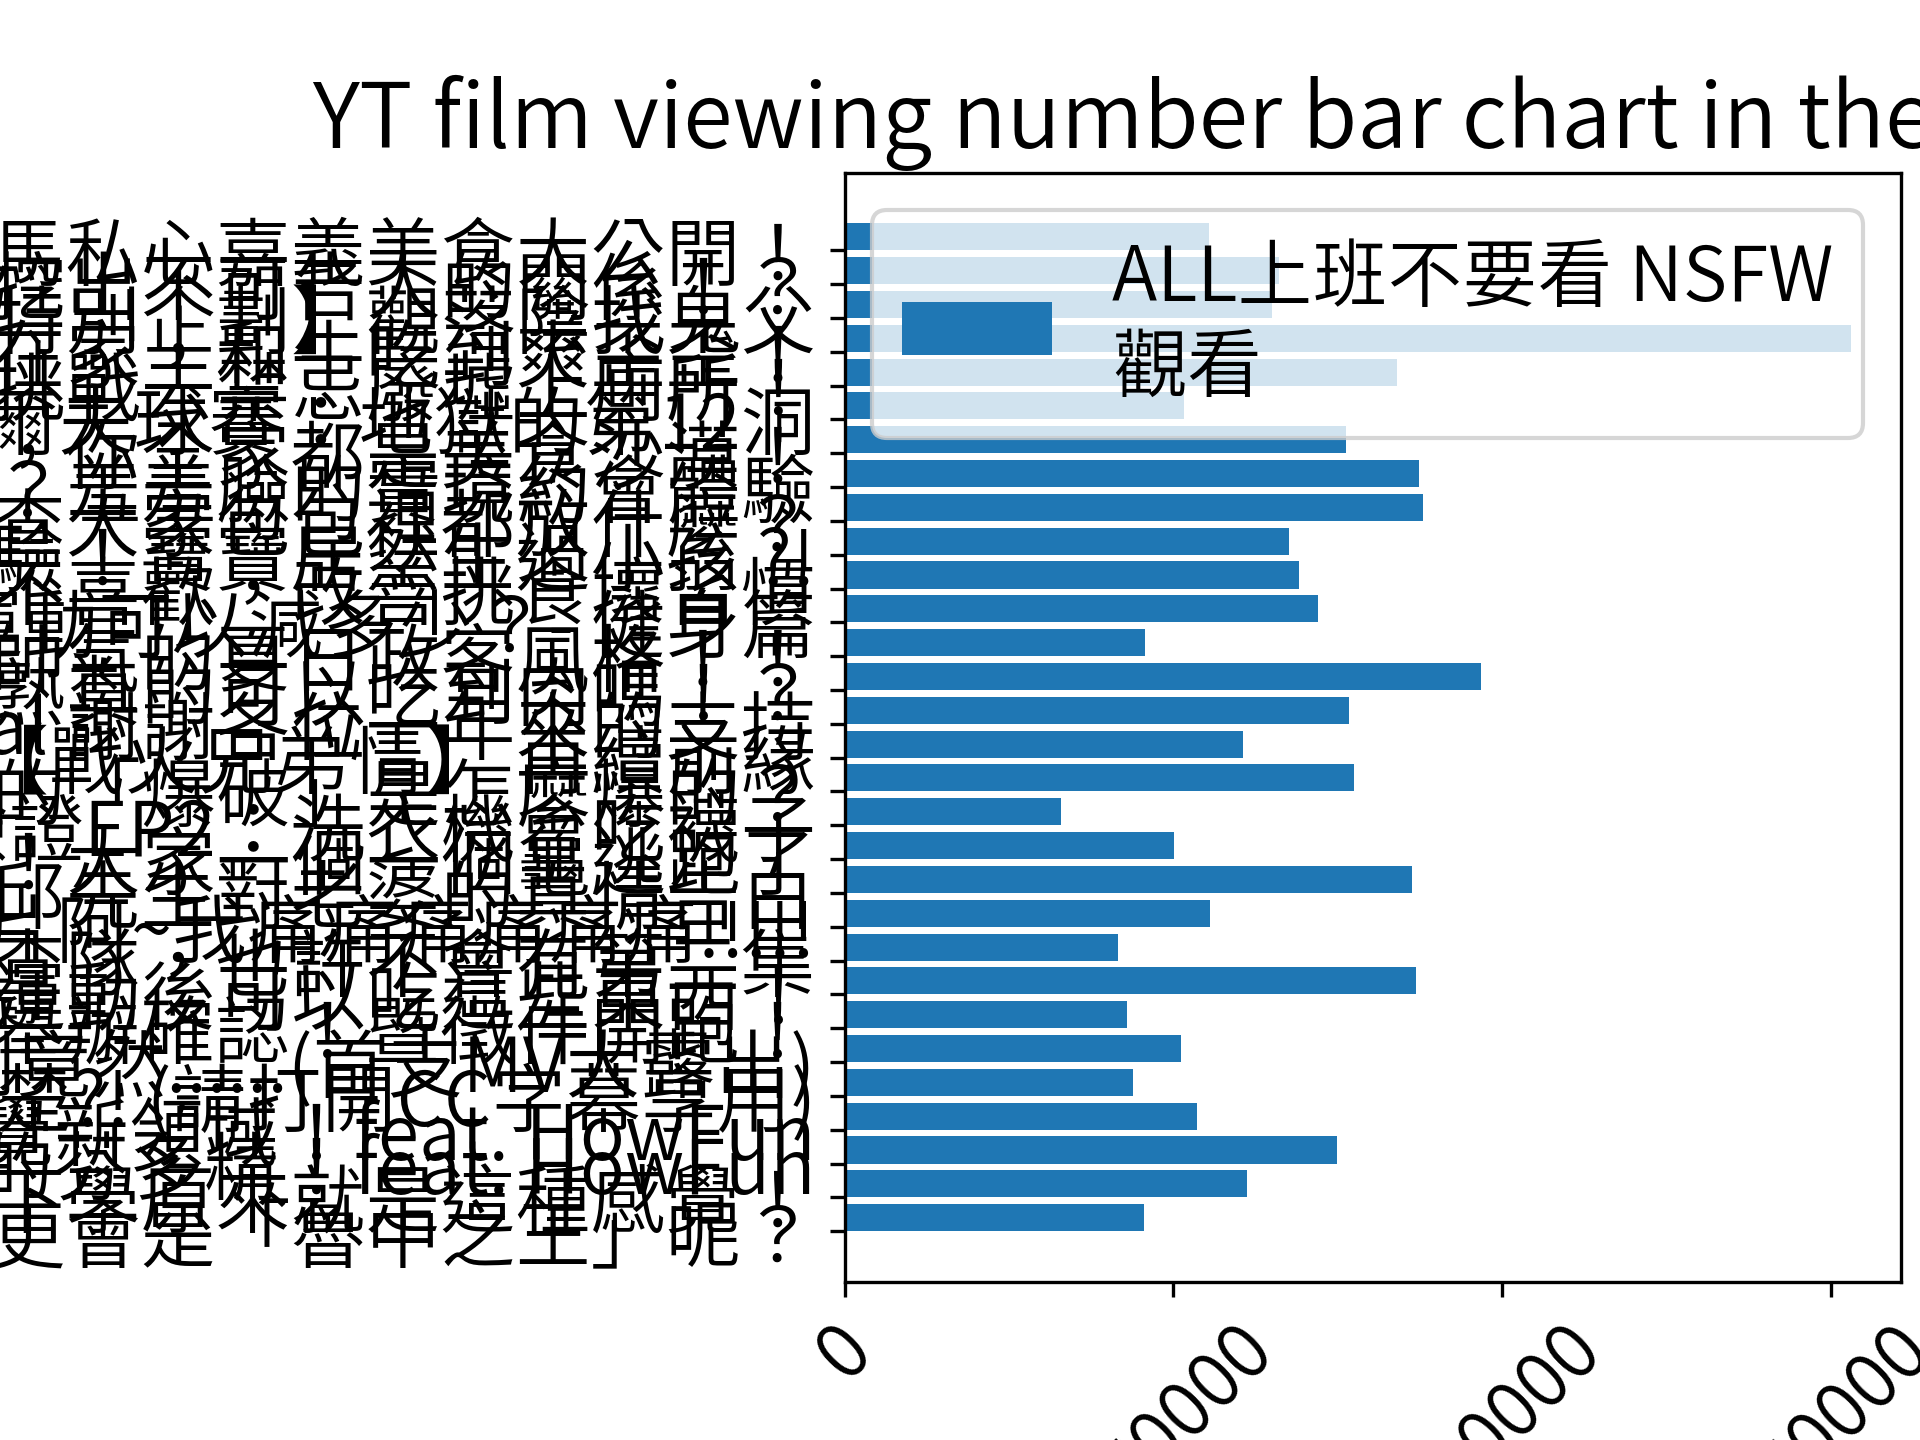
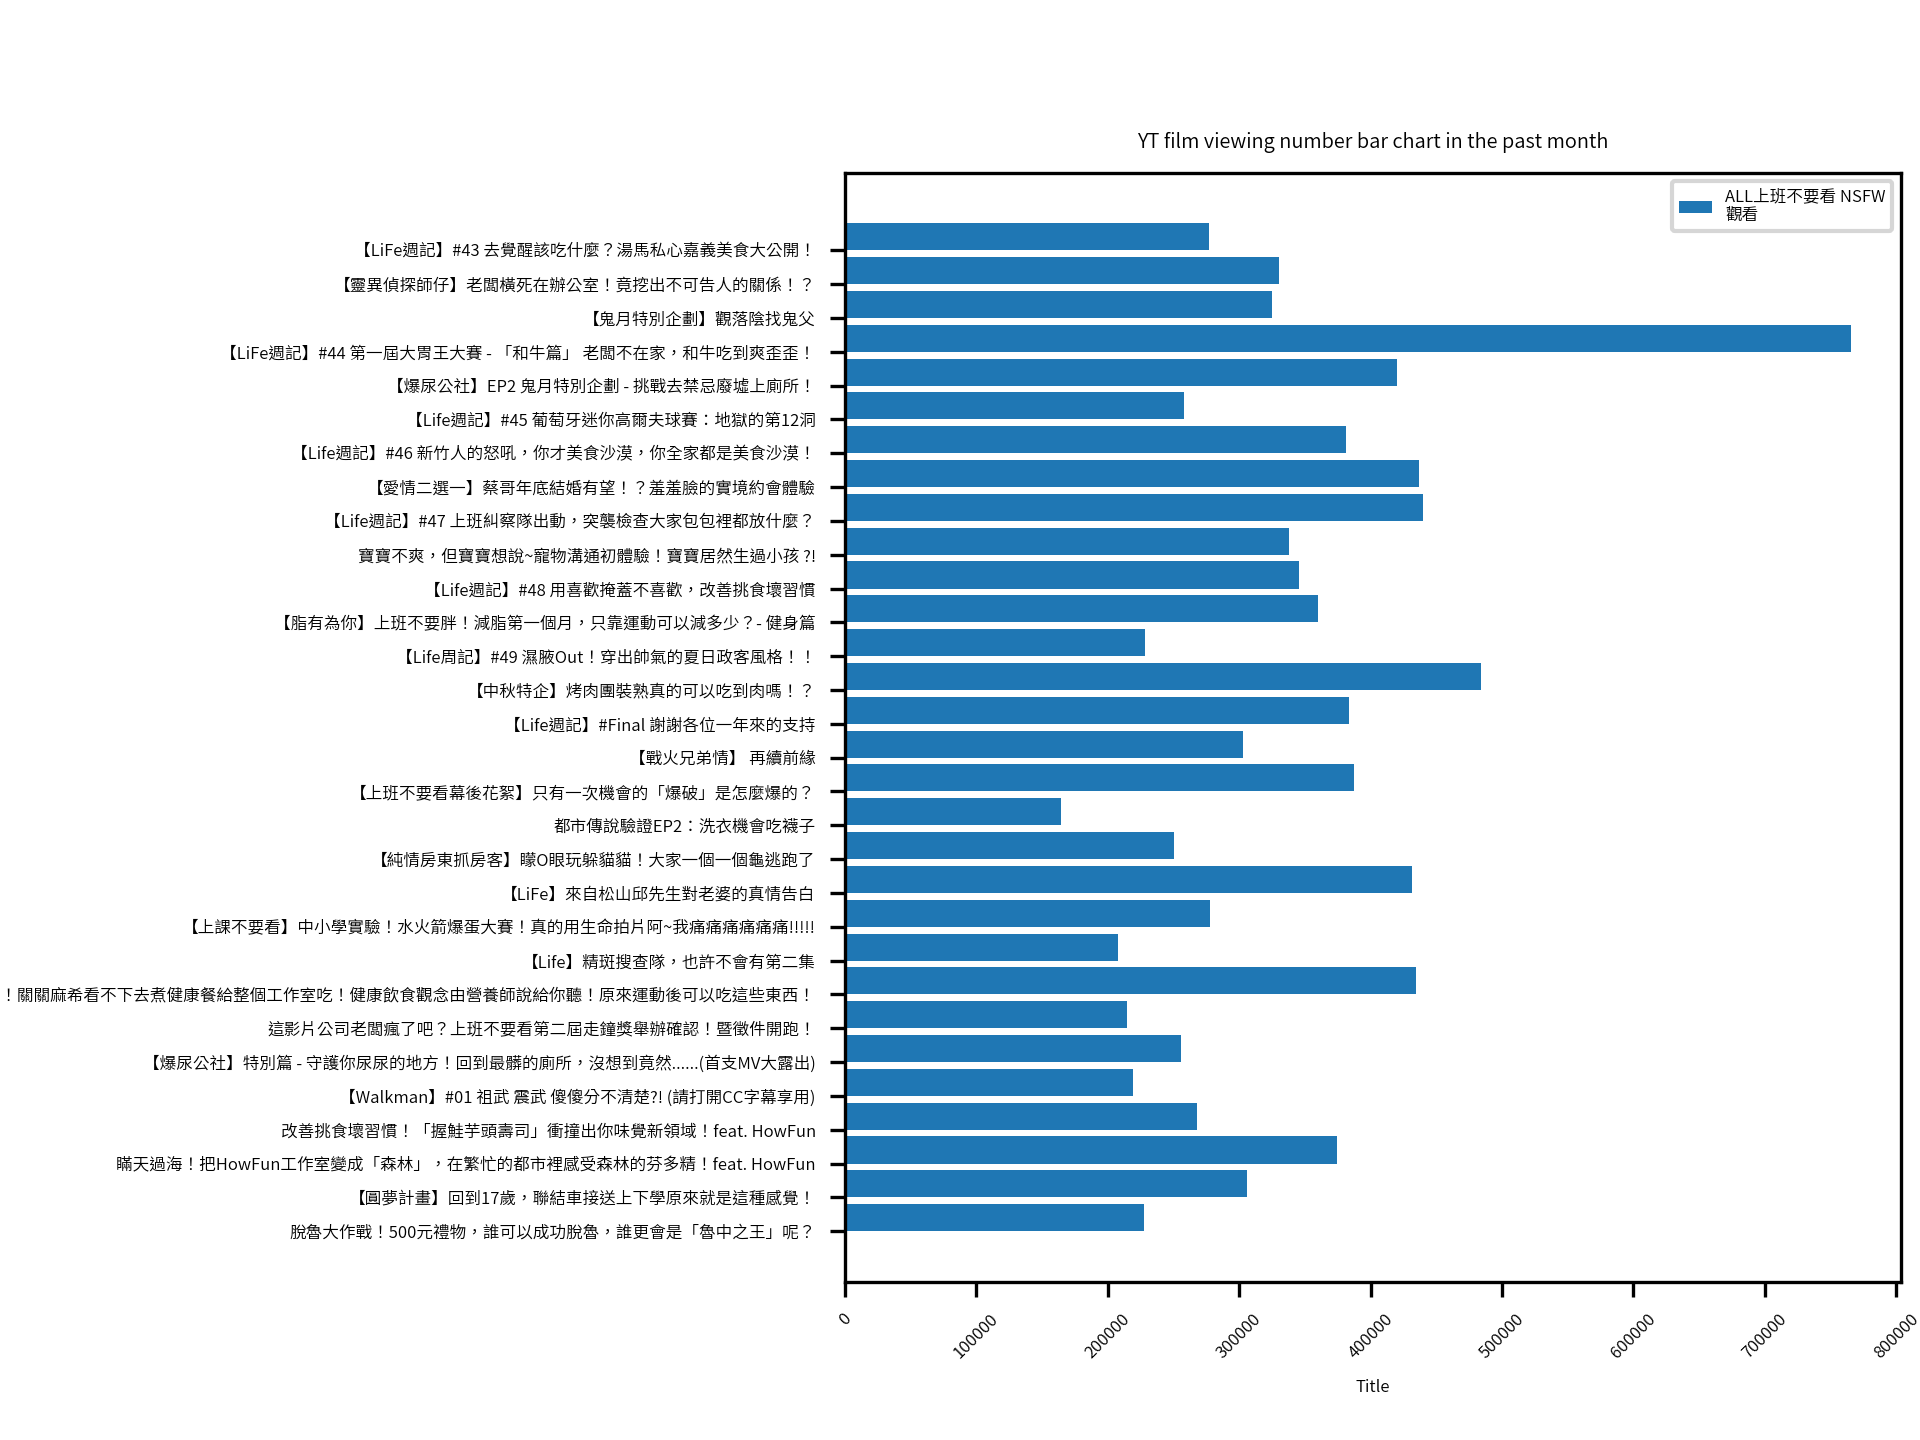
SHup20191111 Version = 11no msg!

diff --git a/yt.py b/yt.py
@@ -19,7 +19,7 @@ import requests
 from bs4 import BeautifulSoup
 import urllib
 
-FONTSIZE=18
+FONTSIZE=4
 #url="https://github.com/adobe-fonts/source-han-sans/raw/release/OTF/TraditionalChinese/SourceHanSansTC-Normal.otf"
 #ttotf = requests.get(url)
 #myfont = FontProperties(ttotf)
